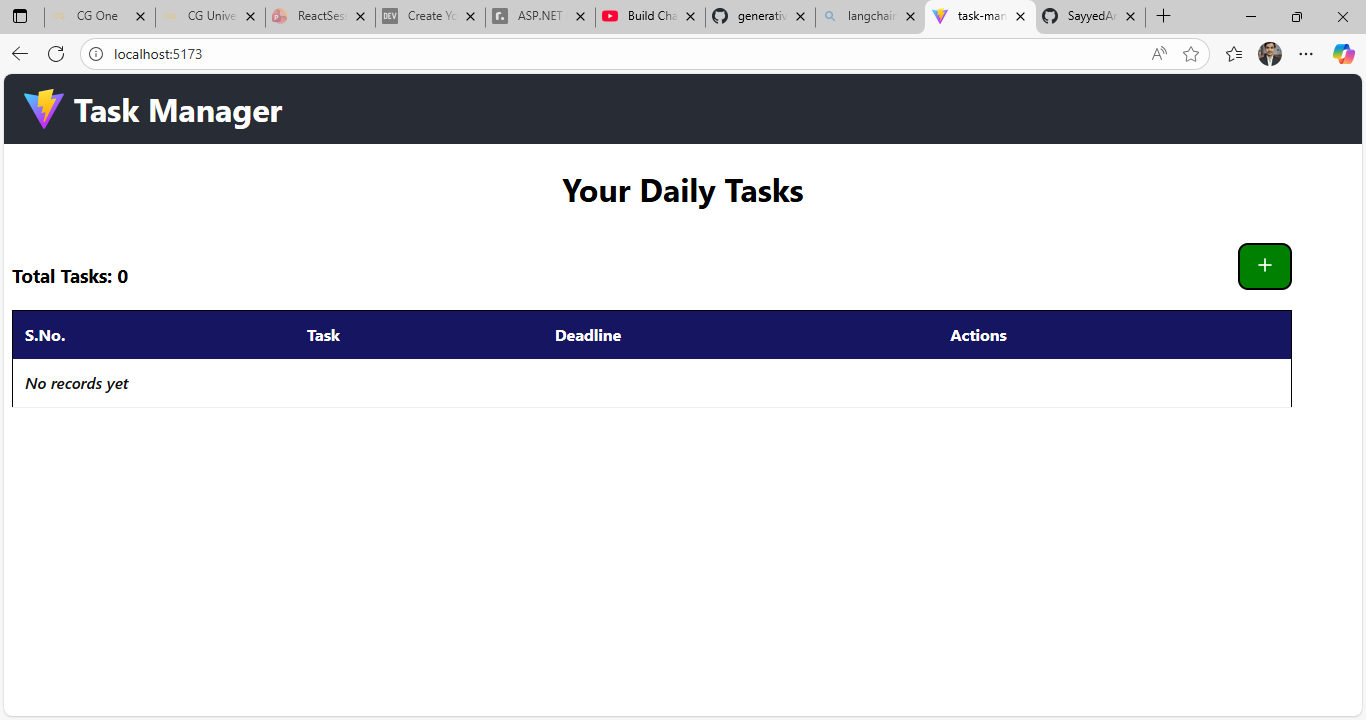
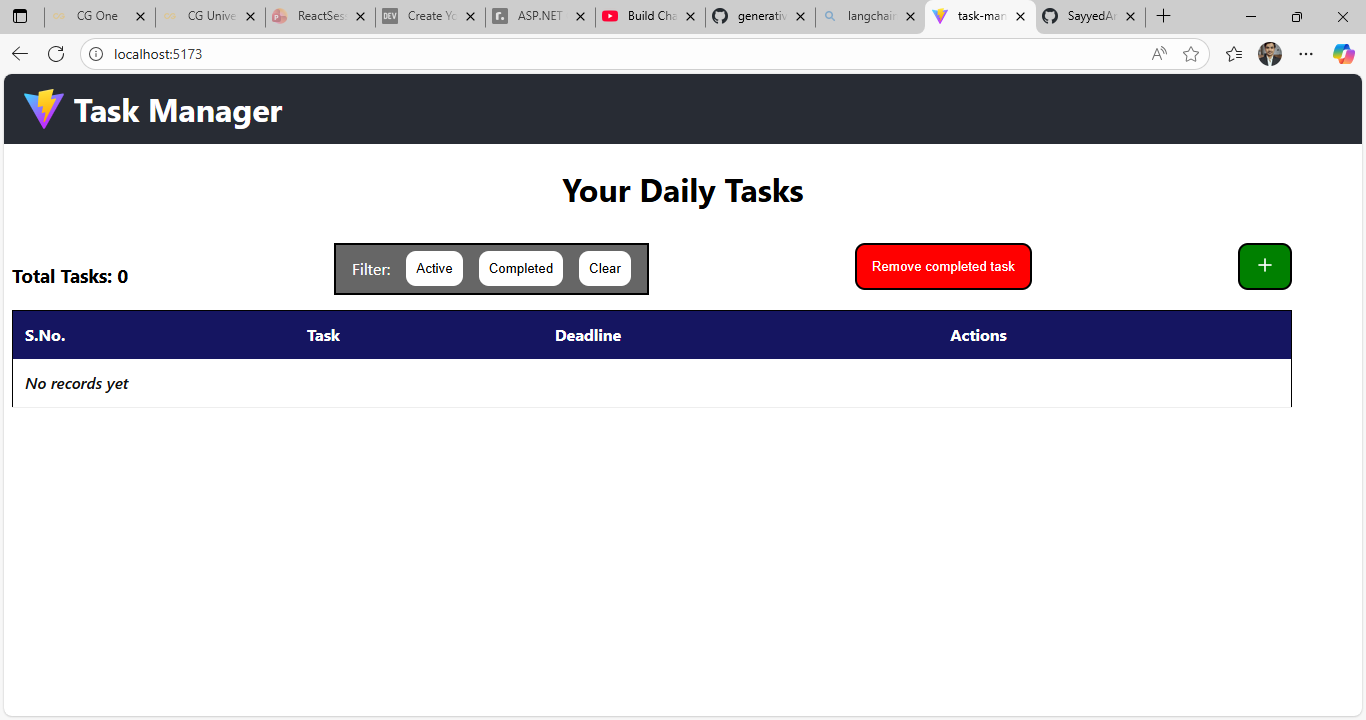
Added filter and remove completed task features

Changed region(s): [[0.246, 0.3361, 0.4919, 0.4278], [0.6149, 0.3361, 0.7687, 0.4278]]

diff --git a/task-manager/src/components/Tasks.jsx b/task-manager/src/components/Tasks.jsx
@@ -10,19 +10,23 @@ function Tasks(props){
     const [data, setData] = useState(props.data || []);
     const [size, setSize] = useState((props.data && props.data.length) || 0);
     const [task, setTask] = useState(null);
+    const [filteredTasks, setFilteredTasks] = useState([]);
+    const [filter, setFilter] = useState('all');
     const [editOpen, setEditOpen] = useState(false);
     const [addOpen, setAddOpen] = useState(false);
     const [deleteOpen, setDeleteOpen] = useState(false);
 
     useEffect(() => {
-        setData(props.data || []);
-        setSize((props.data && props.data.length) || 0);
-    }, [props.data]);
-
-    useEffect(() => {
-        if (props.setData) props.setData(data);
-        setSize(data ? data.length : 0);
-    }, [data, props.setData]);
+        props.setData(data);
+        setData(data);
+        const ft = data.filter(task => {
+            if(filter==='active') return !task.completed;
+            if(filter==='completed') return task.completed;
+            else return true;
+        });
+        setFilteredTasks(ft);
+        setSize(ft.length);
+    }, [data, filter]);
 
     function handleAddData() {
         setAddOpen(true);
@@ -65,12 +69,31 @@ function Tasks(props){
         ));
     }
 
+    function clearAll() {
+        setData(prev => prev.filter(task => !task.completed));
+    }
+
 
     return (
         <div className="tasks-container">
             <div className="show-taks">
                 <div className="record-data">
                     <h3>Total Tasks: {size}</h3>
+                    <div className="filter-buttons">
+                        <p>Filter: </p>
+                        <button onClick={() => setFilter('active')}>
+                            Active
+                        </button>
+                        <button onClick={() => setFilter('completed')}>
+                            Completed
+                        </button>
+                        <button onClick={() => setFilter('all')}>
+                            Clear
+                        </button>
+                    </div>
+                    <button className="clear-button" onClick={() => clearAll()}>
+                        Remove completed task
+                    </button>
                     <button onClick={() => handleAddData()}>
                         <Plus size={20}/>
                     </button>
@@ -91,7 +114,7 @@ function Tasks(props){
                                     <td colSpan={4} className="empty-row">No records yet</td>
                                 </tr>
                             ) : (
-                                (data || []).map(task => (
+                                (filteredTasks || []).map(task => (
                                     <tr key={task.id}>
                                         <td>
                                             {task.id}

diff --git a/task-manager/src/styles/Tasks.css b/task-manager/src/styles/Tasks.css
@@ -25,7 +25,31 @@ button:hover {
     transform: scale(1.05);
 }
 
+.filter-buttons {
+    display: flex;
+    flex-direction: row;
+    align-items: center;
+    padding: 1rem;
+    border: 2px solid black;
+    gap: 1rem;
+    color: white;
+    max-height: 1rem;
+    background-color: #666;
+}
 
+.filter-buttons button{
+    background-color: white;
+    color: black;
+    padding: 10px;
+    border: none;
+    cursor: pointer;
+    border-radius: 10px;
+    margin-bottom: 0;
+}
+
+.clear-button {
+    background-color: red;
+}
 
 .record-tabel {
     display: flex;
